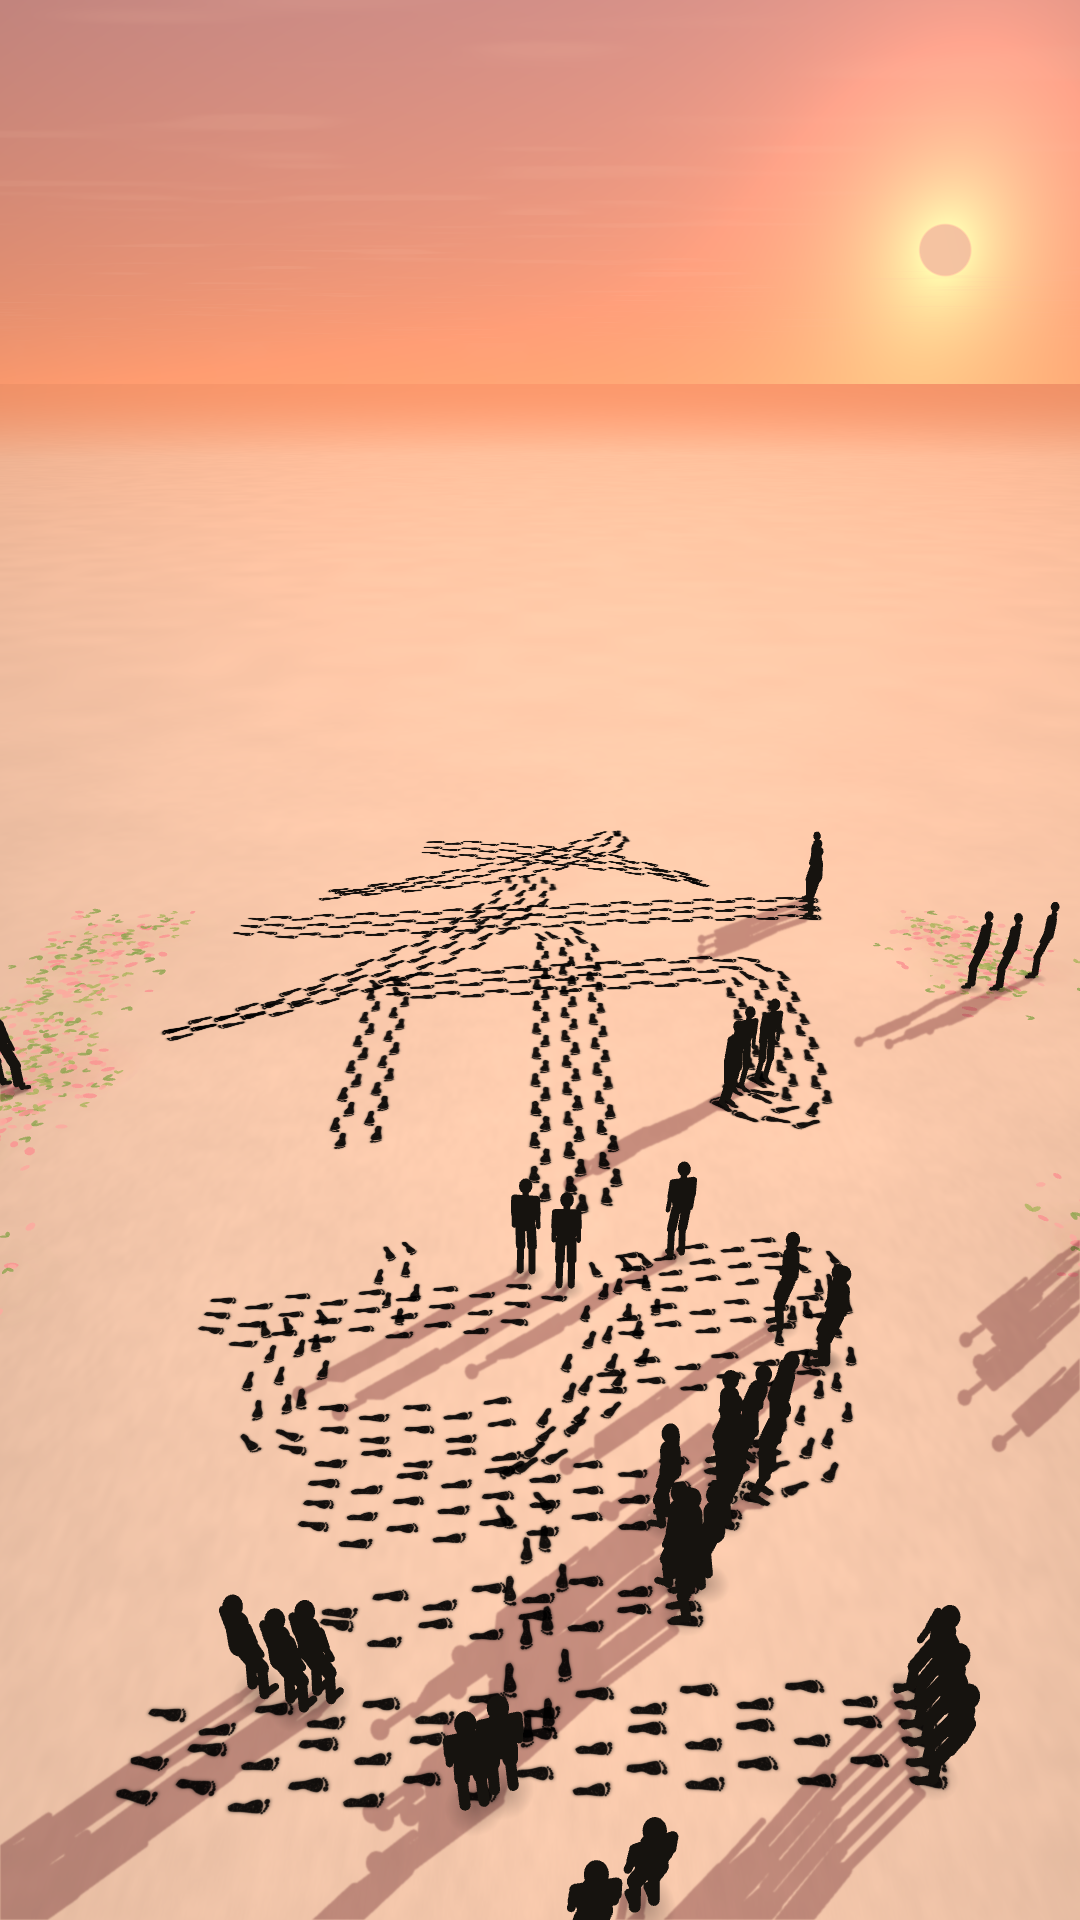
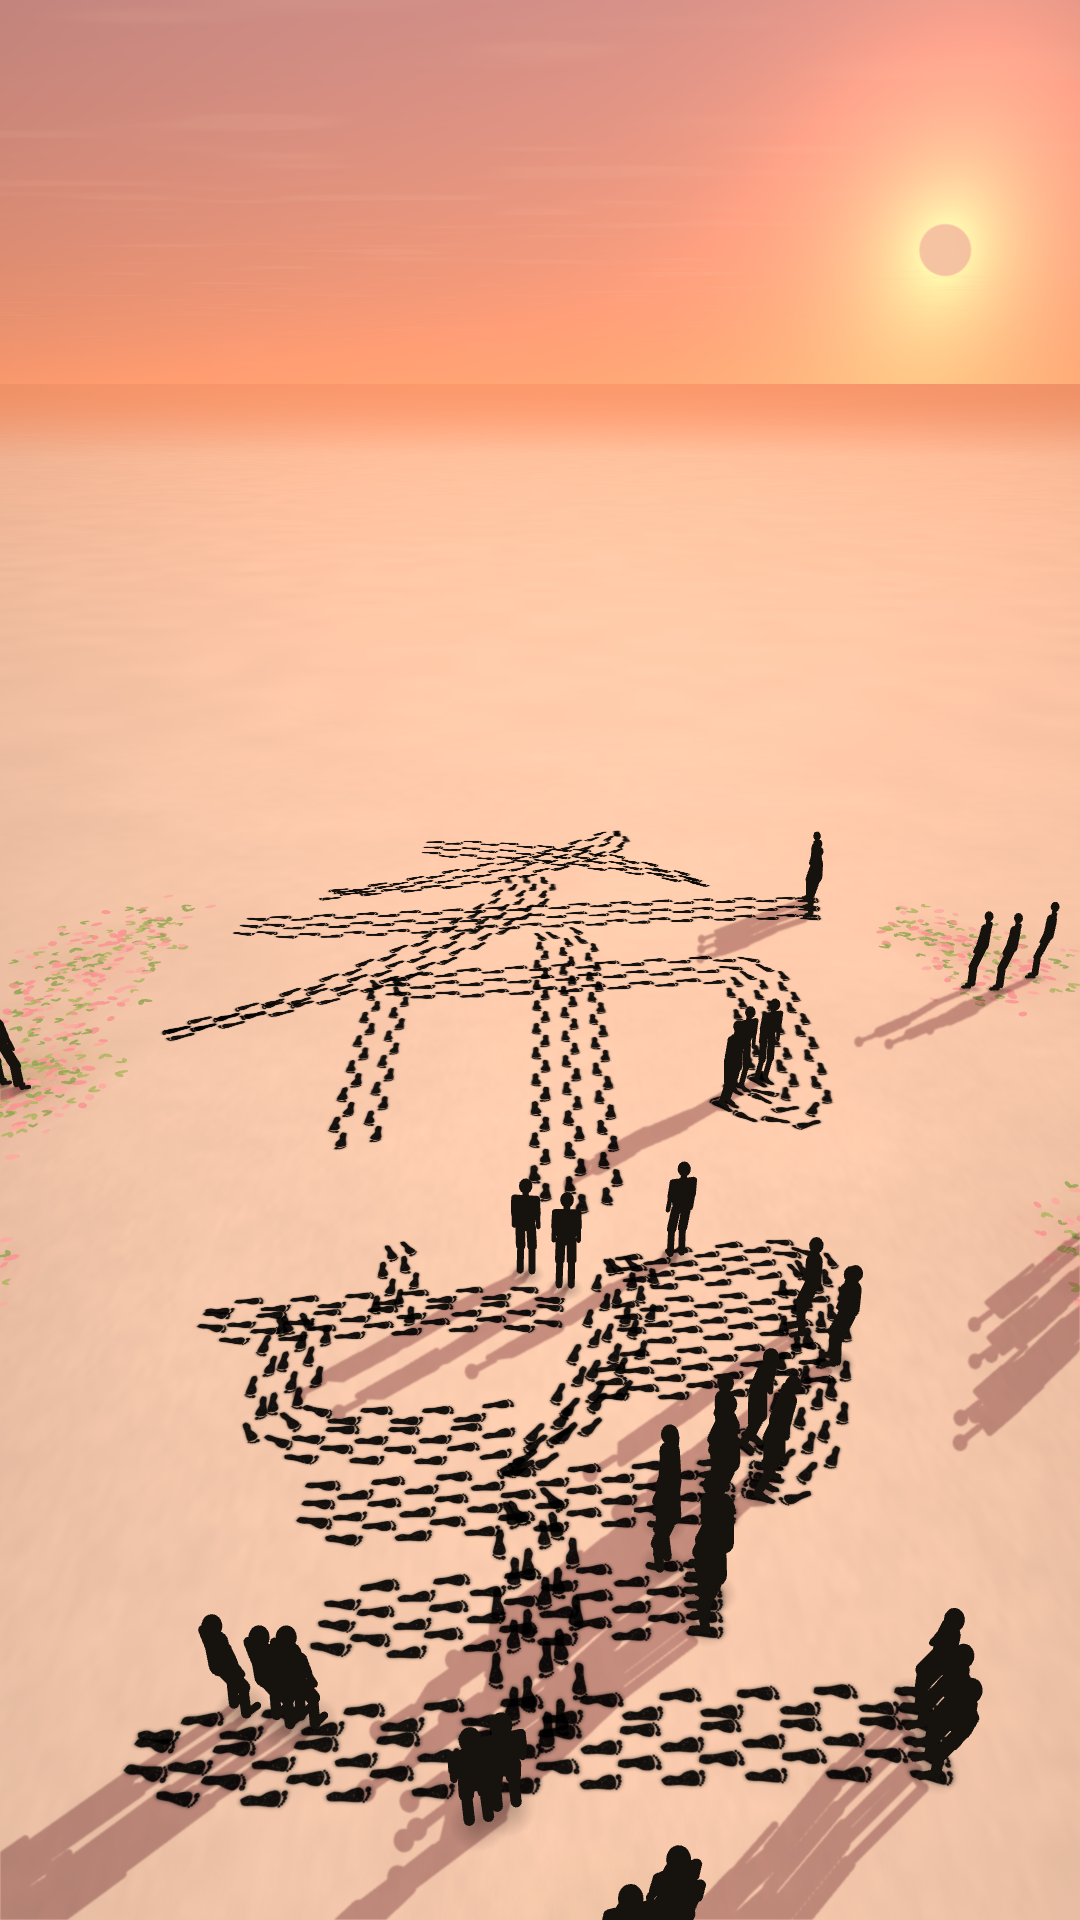
Denser footprints for the near glyph (望): 3 walkers, shorter steps
Claude-Session: https://claude.ai/code/session_01Hbw7THSK7o8B4Kq1iYcECg

diff --git a/kibou-video/scene.js b/kibou-video/scene.js
@@ -108,7 +108,7 @@ function buildStrokes() {
   bounds = { x0, x1, z0, z1 };
   // lanes
   for (const s of strokes) {
-    const P = s.path, nL = s.unitLen > 42 ? 3 : 2, gap = C.laneGap * Math.pow(s.k, 0.85), offs = nL === 3 ? [-1, 0, 1] : [-.5, .5];
+    const P = s.path, near = s.k < 1.05, nL = s.unitLen > (near ? 18 : 42) ? 3 : 2, gap = C.laneGap * Math.pow(s.k, 0.85) * (near ? 0.85 : 1), offs = nL === 3 ? [-1, 0, 1] : [-.5, .5];
     const sweep = /[㇒㇏㇓㇀㇔]/.test(s.type);
     s.nL = nL; s.lanes = [];
     const nrm = P.p.map((_, i) => { const d = P.dir(P.c[i], 1.1); return [d[1], -d[0]]; });
@@ -182,7 +182,7 @@ class Walker {
   sAt(t) { const T = this.tab; const f = (t - T.t0) / T.dt; if (f <= 0) return T.s[0]; if (f >= T.n - 1) return T.s[T.n - 1]; const i = f | 0; return lerp(T.s[i], T.s[i + 1], f - i); }
   tAt(s) { const T = this.tab; let lo = 0, hi = T.n - 1; if (T.s[hi] < s - 1e-4) return Infinity; while (hi - lo > 1) { const m = (lo + hi) >> 1; if (T.s[m] < s - 1e-4) lo = m; else hi = m; } return T.t0 + hi * T.dt; }
   buildSteps() {
-    const st = C.stride, s = [], sEnd = this.sEnd;
+    const st = this.stride, s = [], sEnd = this.sEnd;
     const N = Math.round((sEnd - this.sigma - 0.5 * st) / st);
     const kmin = Math.floor(-this.sigma / st) - 4;
     for (let k = kmin; k <= N; k++) {
@@ -305,7 +305,9 @@ function finishWalker(w, st, Sm, v) {
     w.knots.push([tStop, sEndRaw]);
   }
   // step phase so a print lands at stroke start
-  const st_ = C.stride; let sig = ((w.sA + 0.04 - 0.5 * st_) % st_ + st_) % st_ - st_; w.sigma = sig;
+  // near glyph: shorter, denser steps so its strokes read clearly
+  w.stride = C.stride * (st.k < 1.05 ? 0.74 : 1);
+  const st_ = w.stride; let sig = ((w.sA + 0.04 - 0.5 * st_) % st_ + st_) % st_ - st_; w.sigma = sig;
   const N = Math.floor((sEndRaw - sig - 0.5 * st_) / st_ + 1e-6); w.sEnd = sig + (N + 0.5) * st_;
   // retime last knot to the snapped end
   const kn = w.knots; const kl = kn[kn.length - 1];
@@ -336,7 +338,7 @@ function buildPrints() {
       const t = w.tAt(q.land); if (!isFinite(t) || t < w.tSpawn) continue;
       q.t = t;
       if (q.at >= w.printA && q.at <= w.printB) {
-        prints.push({ x: q.x + (R() - .5) * 0.015, z: q.z + (R() - .5) * 0.015, ang: q.ang + (R() - .5) * 0.07, side: q.side, t, v: (R() * 3) | 0, sc: (0.95 + R() * 0.1) * Math.pow(strokes[w.stroke].k, 0.75) });
+        prints.push({ x: q.x + (R() - .5) * 0.015, z: q.z + (R() - .5) * 0.015, ang: q.ang + (R() - .5) * 0.07, side: q.side, t, v: (R() * 3) | 0, sc: (0.95 + R() * 0.1) * Math.pow(strokes[w.stroke].k, 0.75) * (strokes[w.stroke].k < 1.05 ? 1.12 : 1) });
       } else if (t < 23.2) scenSeeds.push({ x: q.x, z: q.z, t, w });
     }
   }
@@ -514,7 +516,7 @@ function poseOf(w, t) {
     fl = mv(fl, 0, smooth(0, 0.55, q)); fr = mv(fr, 1, smooth(0.45, 1, q));
   }
   const f = [Math.cos(ang), Math.sin(ang)], r = [f[1], -f[0]];
-  const st = C.stride; const frac = (((s - w.sigma) / st) % 1 + 1) % 1;
+  const st = w.stride; const frac = (((s - w.sigma) / st) % 1 + 1) % 1;
   const hy = 0.985 - 0.05 * amp * (1 - Math.pow(Math.sin(Math.PI * frac), 2));
   const sway = 0.018 * amp * Math.sin(Math.PI * (s - w.sigma) / st);
   const hip = [P[0] + r[0] * sway, hy, P[1] + r[1] * sway];
